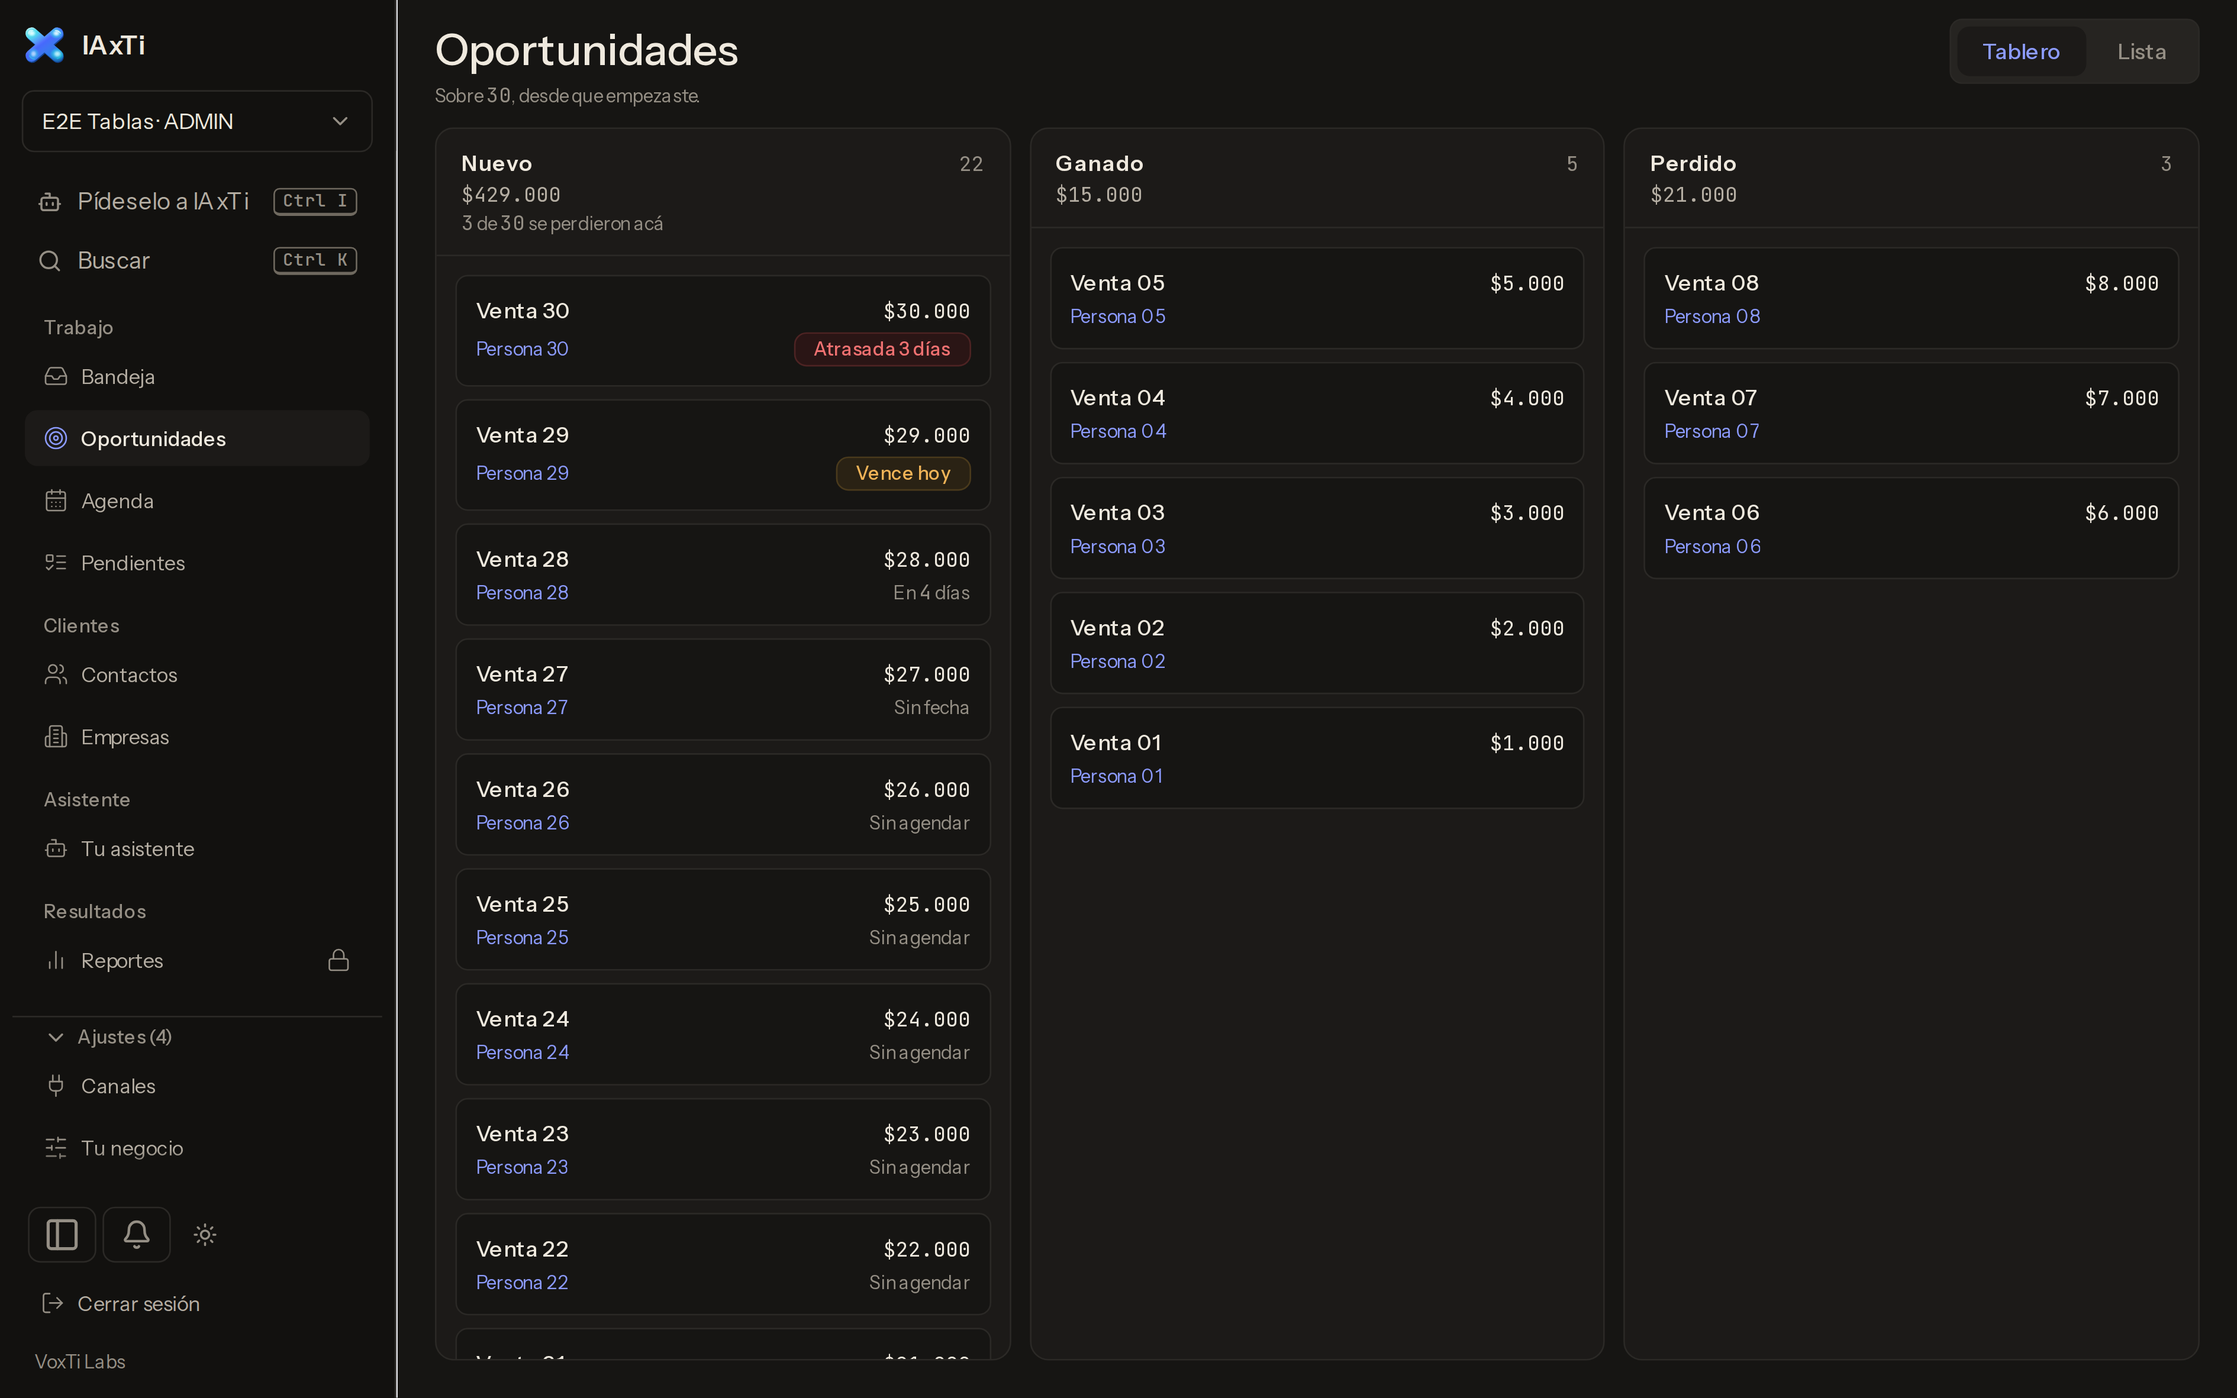
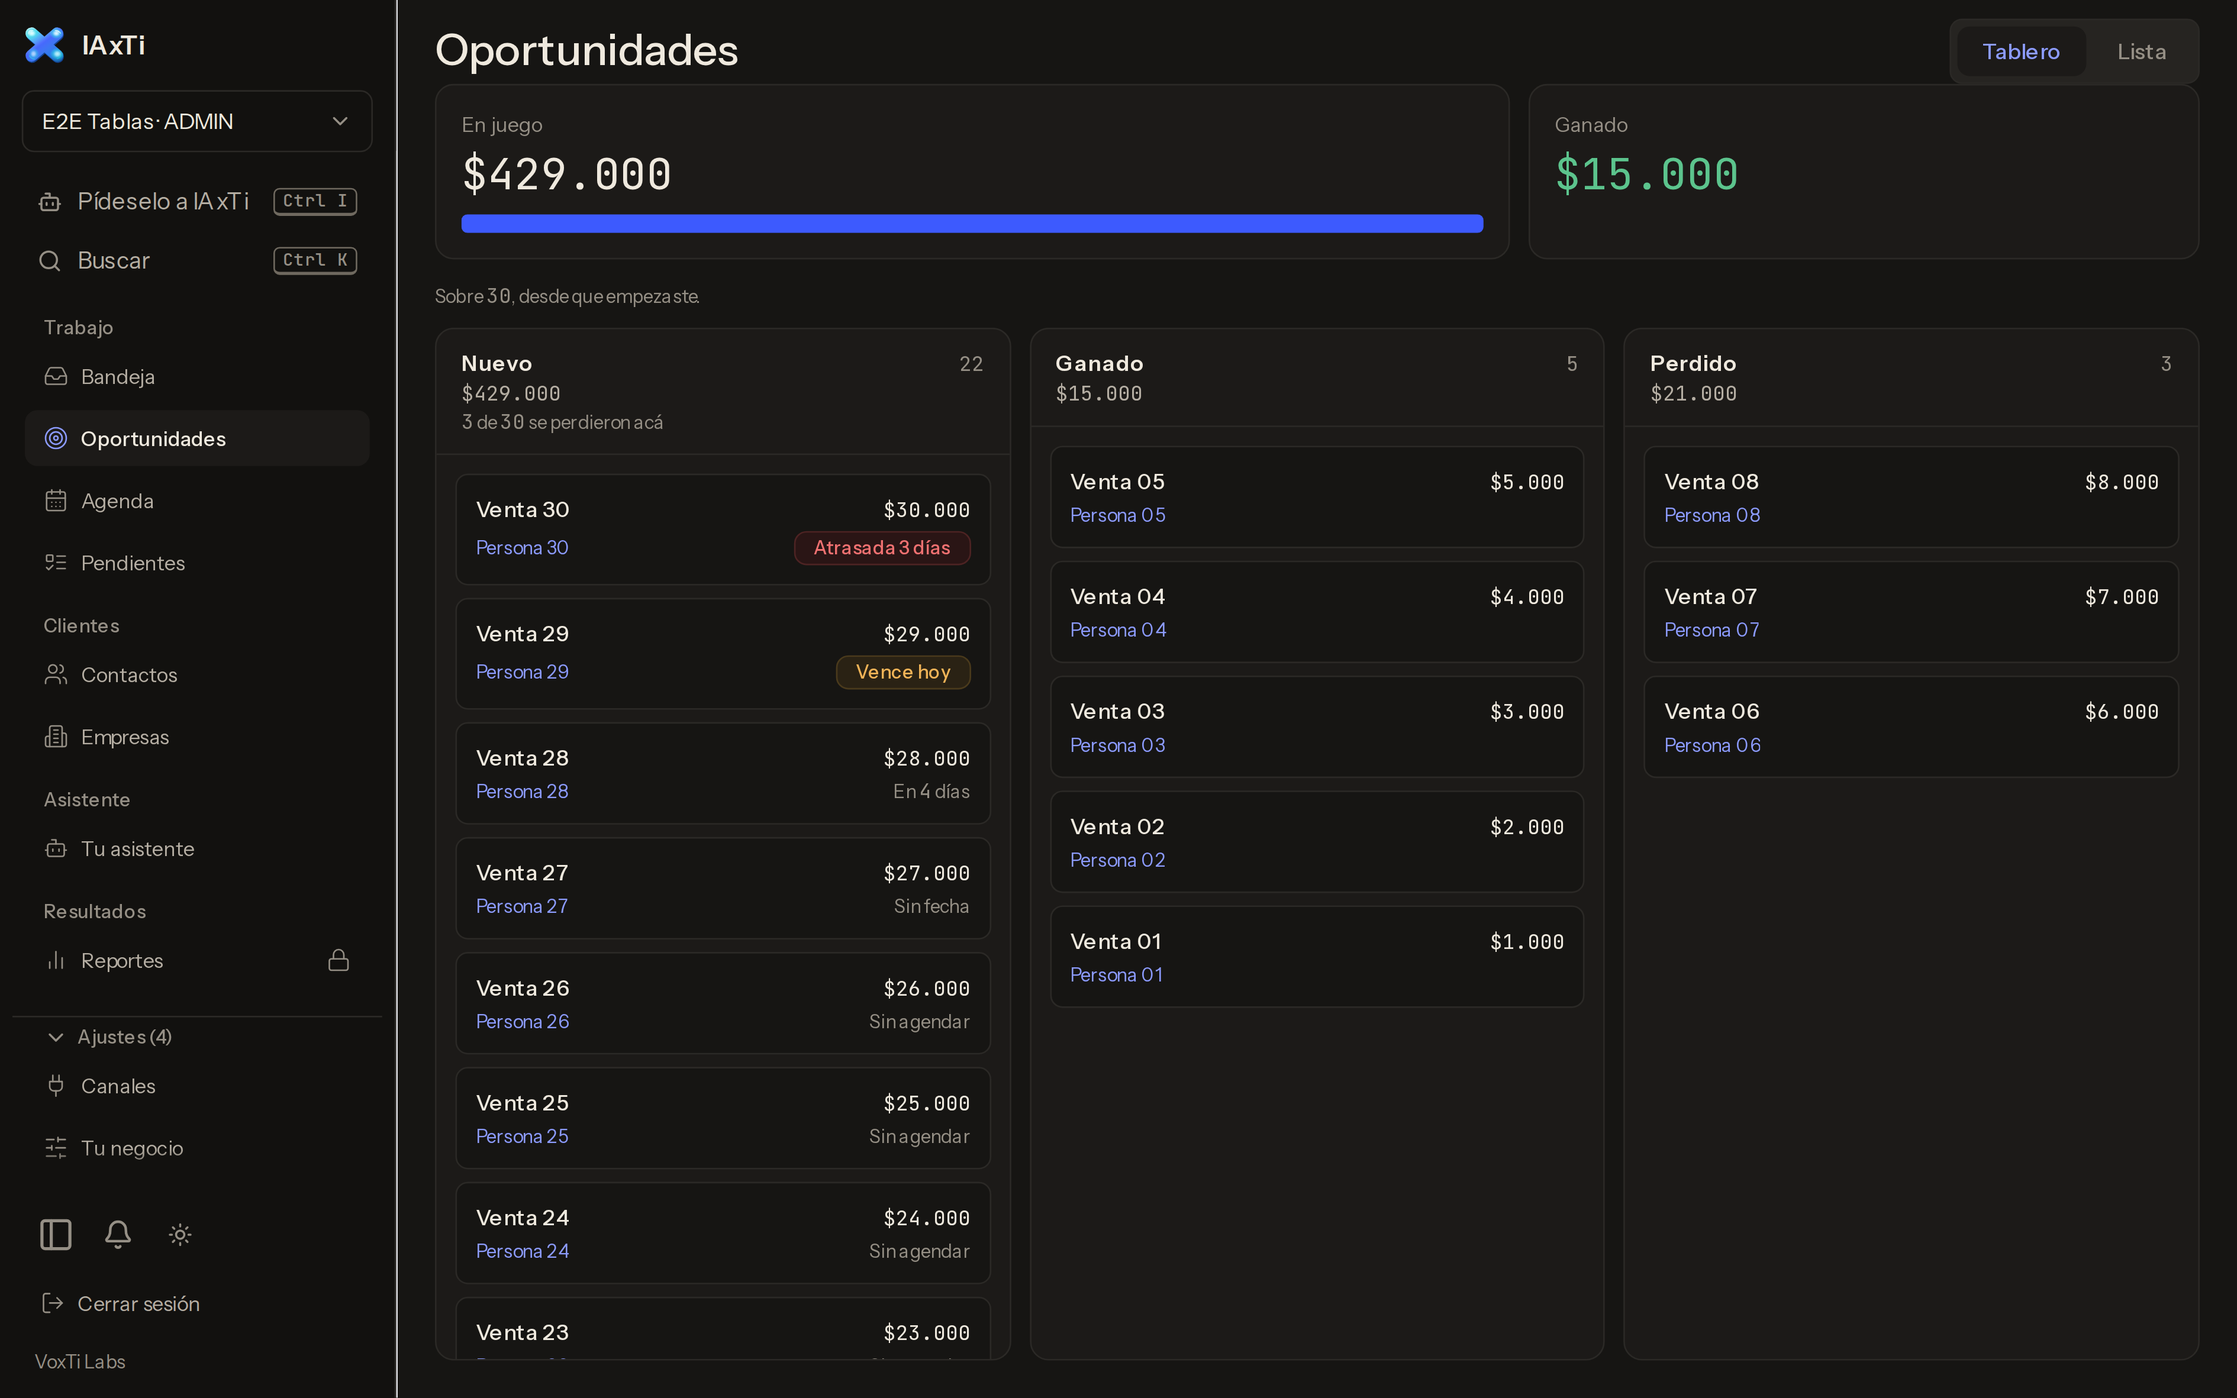
feat(ui): Mesón, fases 3 y 4 — Contactos y Oportunidades (#1350)
* feat(ui): Mesón, fases 3 y 4 — Contactos y Oportunidades (#1346)

Contactos (y toda lista que use DataTable):
- El buscador va en la misma fila que «Columnas» (prop `herramientas`);
  sin tabla —cargando o vacía— va solo, porque el vacío por búsqueda
  necesita el campo para limpiarla.
- Tabla más liviana: encabezados chicos y apagados, filete normal,
  filas centradas, hover al fondo de página. «Columnas» sin borde.
- Exportar e Importar con su icono.

Oportunidades:
- Cifras arriba del tablero, solo las que el producto SABE: «En juego»
  (suma de etapas abiertas de /deals/resumen, con su barra en el orden
  de las columnas y el azul en la abierta más avanzada) y «Ganado». Sin
  resumen no se dibujan. «Cerró el asistente solo» y «vs el mes
  anterior» del prototipo no van: ese dato no existe. Desde 640 px: en
  el celular el tablero necesita el alto (el-embudo-en-el-tablero).

e2e: cinco-listas-medidas, el-embudo-en-el-tablero,
el-tablero-cabe-en-la-pantalla, entrar-a-una-oportunidad,
la-prosa-tiene-techo, tablas y la-interfaz-meson pasan.

* fix(ui): las cifras del embudo usan la escala tipográfica (#1346)

text-[28px] era un tamaño suelto; tipografia.test (#297) lo rechaza.
text-titulo da 24–28 px, lo mismo que pedía el prototipo.

Claude-Session: https://claude.ai/code/session_01XVX1GkKUcgfbKQhEKGhndj

* fix(web): los botones de Contactos no se salen a 360 px (#1346)

Con los íconos nuevos los tres botones del encabezado sumaban 380 px y a
[…]

diff --git a/apps/web/components/crm/contactos.tsx b/apps/web/components/crm/contactos.tsx
@@ -3,6 +3,7 @@
 import { AvisoResultado, EncabezadoDePagina } from '@iaxti/ui/react';
 
 import { useCallback, useEffect, useMemo, useRef, useState } from 'react';
+import { Download, Upload } from 'lucide-react';
 import { Badge, Button, DataTable, EstadoVacio, Input, Skeleton, useSession, type ColumnDef, type SortingState, type RowSelectionState } from '@iaxti/ui/react';
 import { useSelectedTenant } from '../tenant-switcher';
 import { crmClient } from '@iaxti/sdk';
@@ -129,6 +130,16 @@ function ContactosDelNegocio({ tenant }: { tenant: string }) {
     { id: 'rut', accessorKey: 'rut', header: 'RUT', enableSorting: false, cell: ({ row }) => <span className="font-mono">{row.original.rut ?? '—'}</span> },
     { id: 'activity', accessorKey: 'lastActivityAt', header: 'Actividad', cell: ({ row }) => <time dateTime={row.original.lastActivityAt} className="font-mono">{new Date(row.original.lastActivityAt).toLocaleDateString('es-CL')}</time> },
   ];
+  const buscador = (clase = '') => (
+    <Input
+      type="search"
+      aria-label="Buscar contactos"
+      placeholder="Buscar por nombre o teléfono"
+      className={`w-full max-w-xs ${clase}`}
+      value={q}
+      onChange={(e) => { setQ(e.target.value); firstPage(); }}
+    />
+  );
   return (
     <div className="max-w-5xl" data-densidad="densa">
       <div className="flex flex-wrap items-center gap-4">
@@ -143,13 +154,15 @@ function ContactosDelNegocio({ tenant }: { tenant: string }) {
             ya ofrece como acción. Exportar queda detrás, en secundario:
             Excel primero, que es lo que la gente quiere cuando dice
             «exportar», y el CSV al lado para quien lo lleva a otro sistema. */}
-        <div className="ml-auto flex items-center gap-2">
+        {/* A 360 px los tres con ícono suman 380 px y no caben en 328: el
+            ícono es de escritorio y la fila puede bajar a dos líneas (#1346). */}
+        <div className="ml-auto flex flex-wrap items-center justify-end gap-2">
           <Button
             variant="secundario"
             disabled={exportando || items?.length === 0}
             onClick={() => void exportarXlsx()}
           >
-            {exportando ? 'Armando el archivo…' : 'Exportar Excel'}
+            <Download className="hidden size-4 sm:block" aria-hidden />{exportando ? 'Armando el archivo…' : 'Exportar Excel'}
           </Button>
           {/* «Exportar CSV» y no «CSV» (#1118). El peso fantasma es la
               decisión de #1106 y se queda —es la exportación menos usada—,
@@ -166,9 +179,9 @@ function ContactosDelNegocio({ tenant }: { tenant: string }) {
           </Button>
           <a
             href="/contactos/importar"
-            className="inline-flex min-h-control items-center rounded-boton bg-action px-5 text-sm font-medium text-white transition-colors hover:bg-action-hover"
+            className="inline-flex min-h-control items-center gap-2 rounded-boton bg-action px-4 text-sm font-medium text-white transition-colors hover:bg-action-hover"
           >
-            Importar CSV
+            <Upload className="hidden size-4 sm:block" aria-hidden />Importar CSV
           </a>
         </div>
       </div>
@@ -178,14 +191,10 @@ function ContactosDelNegocio({ tenant }: { tenant: string }) {
           `max-w-xs` y no un valor nuevo: es el que ya usa el buscador de
           Empresas, y tres anchos para la misma cosa en tres pantallas es
           exactamente lo que #1109 vino a sacar. */}
-      <Input
-        type="search"
-        aria-label="Buscar contactos"
-        placeholder="Buscar por nombre o teléfono"
-        className="mt-4 w-full max-w-xs"
-        value={q}
-        onChange={(e) => { setQ(e.target.value); firstPage(); }}
-      />
+      {/* Con tabla, el buscador va en la fila de «Columnas» (Mesón, #1346);
+          sin tabla —cargando o vacía— va solo, porque el vacío por búsqueda
+          necesita el campo para limpiarla. */}
+      {!(items && items.length > 0) && buscador('mt-4')}
       {aviso && (
         <AvisoResultado>
           {aviso}
@@ -203,6 +212,7 @@ function ContactosDelNegocio({ tenant }: { tenant: string }) {
         <DataTable label="Contactos" columns={columns} rows={items} sorting={sorting}
           onSort={(sort) => { setSorting(sort); firstPage(); }} selection={selection} onSelection={setSelection}
           nextCursor={cursor} loading={loading} mobileColumns={['name']} canPrevious={history.length > 0}
+          herramientas={buscador()}
           onNext={() => { if (cursor) { setHistory((h) => [...h, currentCursor]); setCurrentCursor(cursor); setSelection({}); } }}
           onPrevious={() => { setCurrentCursor(history.at(-1)); setHistory((h) => h.slice(0, -1)); setSelection({}); }}>
           <EtiquetarSeleccion tenant={tenant} contactIds={items.filter((c) => selection[c.id]).map((c) => c.id)} onDone={() => setSelection({})} />

diff --git a/apps/web/components/crm/oportunidades.tsx b/apps/web/components/crm/oportunidades.tsx
@@ -188,6 +188,62 @@ export function QueHayQueHacer({ deal }: { deal: DealCardDto }) {
  * Se calla entera sin oportunidades: sin datos no hay embudo, y una línea
  * que diga «sobre 0» es ruido que ocupa alto.
  */
+/**
+ * Las cifras de arriba del tablero (Mesón, #1346).
+ *
+ * El prototipo traía tres; acá van las dos que el producto SABE: lo que está
+ * en juego —la suma de las etapas abiertas, con su barra en el mismo orden que
+ * las columnas— y lo ganado. Salen de `/deals/resumen`, el mismo que pone el
+ * dinero en cada cabecera, y sin resumen no se dibujan: una cifra que miente es
+ * peor que ninguna. «Cerró el asistente solo» y «vs el mes anterior» no se
+ * muestran porque ese dato no existe todavía.
+ *
+ * El azul va en la etapa abierta más avanzada —la que está por cerrarse—; las
+ * demás en grises del marco. Pocas palabras: la pantalla tiene techo de prosa.
+ */
+function CifrasDelEmbudo({
+  etapas,
+  resumen,
+}: {
+  etapas: StageDto[];
+  resumen: Record<string, { cuantas: number; totalClp: number }>;
+}) {
+  const abiertas = etapas.filter((e) => e.type === 'open' && resumen[e.id]);
+  const ganadas = etapas.filter((e) => e.type === 'won' && resumen[e.id]);
+  const enJuego = abiertas.reduce((s, e) => s + resumen[e.id].totalClp, 0);
+  const ganado = ganadas.reduce((s, e) => s + resumen[e.id].totalClp, 0);
+  if (enJuego === 0 && ganado === 0) return null;
+  const ultimaConDinero = [...abiertas].reverse().find((e) => resumen[e.id].totalClp > 0)?.id;
+  // Tres grises del marco, de claro a hondo; el azul lo lleva una sola.
+  const tonos = ['bg-line', 'bg-line-strong', 'bg-faint'];
+  return (
+    // Solo desde 640 px: en el celular el tablero necesita el alto
+    // (el-embudo-en-el-tablero pide > 400 px) y cada cabecera ya trae su total.
+    <div className="hidden shrink-0 gap-3 px-6 pb-4 sm:grid sm:grid-cols-[minmax(0,1.6fr)_minmax(0,1fr)]">
+      <section aria-label="En juego" className="rounded-tarjeta border border-line bg-raised p-4">
+        <p className="text-dato text-muted">En juego</p>
+        <p className="mt-2 font-mono text-titulo leading-none tabular-nums text-ink">{fmtClp(enJuego)}</p>
+        {enJuego > 0 && (
+          <div className="mt-3 flex h-3 gap-0.5 overflow-hidden rounded" aria-hidden>
+            {abiertas.filter((e) => resumen[e.id].totalClp > 0).map((e, i) => (
+              <span
+                key={e.id}
+                title={`${e.name}: ${fmtClp(resumen[e.id].totalClp)}`}
+                style={{ flexGrow: resumen[e.id].totalClp }}
+                className={e.id === ultimaConDinero ? 'bg-action' : tonos[i % tonos.length]}
+              />
+            ))}
+          </div>
+        )}
+      </section>
+      <section aria-label="Ganado" className="rounded-tarjeta border border-line bg-raised p-4">
+        <p className="text-dato text-muted">Ganado</p>
+        <p className="mt-2 font-mono text-titulo leading-none tabular-nums text-good-text">{fmtClp(ganado)}</p>
+      </section>
+    </div>
+  );
+}
+
 function LecturaDelEmbudo({ embudo }: { embudo: EmbudoDto | null }) {
   if (!embudo || embudo.oportunidades === 0) return null;
   return (
@@ -535,6 +591,7 @@ function OportunidadesDelNegocio({ tenant }: { tenant: string }) {
              quedaba pegada al borde izquierdo. Se vio en la captura de
              celular. */
         <>
+          <CifrasDelEmbudo etapas={pipeline.stages} resumen={resumen} />
           <LecturaDelEmbudo embudo={embudo} />
           <div className="flex min-h-0 flex-1 snap-x scroll-px-6 gap-3 overflow-x-auto px-6 pb-6">
           {pipeline.stages.map((stage) => {

diff --git a/packages/ui/src/react/ui/data-table.tsx b/packages/ui/src/react/ui/data-table.tsx
@@ -11,12 +11,14 @@ export type { ColumnDef, SortingState, RowSelectionState } from '@tanstack/react
 
 /** El servidor entrega una página ya ordenada/filtrada; aquí no se vuelve a ordenar. */
 export function DataTable<T extends { id: string }>({ label, columns, rows, sorting, onSort, selection, onSelection,
-  nextCursor, onNext, onPrevious, canPrevious, loading = false, mobileColumns, children,
+  nextCursor, onNext, onPrevious, canPrevious, loading = false, mobileColumns, children, herramientas,
 }: {
   label: string; columns: ColumnDef<T, unknown>[]; rows: T[]; sorting: SortingState;
   onSort: (value: SortingState) => void; selection: RowSelectionState; onSelection: (value: RowSelectionState) => void;
   nextCursor: string | null; onNext: () => void; onPrevious: () => void; canPrevious: boolean;
   loading?: boolean; mobileColumns: string[]; children?: ReactNode;
+  /** Lo que va a la izquierda de «Columnas», en la misma fila: el buscador de la pantalla. */
+  herramientas?: ReactNode;
 }) {
   const [small, setSmall] = useState(false);
   const [visibility, setVisibility] = useState<Record<string, boolean>>({});
@@ -39,12 +41,15 @@ export function DataTable<T extends { id: string }>({ label, columns, rows, sort
   const hayPaginas = canPrevious || !!nextCursor;
   return <div data-densidad="densa" className="mt-4 min-w-0 space-y-3" aria-busy={loading}>
     <div className="flex flex-wrap items-center justify-between gap-3">
+      {/* Mesón (#1346): el buscador de la pantalla va en la MISMA fila que
+          «Columnas», a la izquierda; antes eran dos filas para dos controles. */}
+      {herramientas}
       {/* «Columnas» ES un control y tenía que verse como uno (#1118): era un
           `summary` en azul de acción y nada más, flotando sobre la tabla, con
           el aspecto de texto que alguien se olvidó de estilar. Sigue siendo
           `details`/`summary` —funciona sin JavaScript— con la piel del botón
           secundario del sistema. */}
-      <details className="text-dato"><summary className="inline-flex cursor-pointer items-center gap-2 rounded-boton border border-line-strong bg-raised px-4 py-2 text-cuerpo text-body transition-colors hover:border-line-strong hover:text-ink [&::-webkit-details-marker]:hidden">
+      <details className="ml-auto text-dato"><summary className="inline-flex h-9 cursor-pointer items-center gap-2 rounded-boton px-3 text-dato text-body transition-colors hover:bg-rest hover:text-ink [&::-webkit-details-marker]:hidden">
         <IconoColumnas className="h-4 w-4" aria-hidden />Columnas</summary>
         <div className="flex flex-wrap gap-3">{table.getAllLeafColumns().filter((c) => c.getCanHide()).map((c) => <label key={c.id} className="inline-flex min-h-control items-center gap-2">
           {/* El Checkbox de Pulso y no un `<input type="checkbox">`: el

diff --git a/packages/ui/src/react/ui/table.tsx b/packages/ui/src/react/ui/table.tsx
@@ -6,17 +6,17 @@ export const Table = React.forwardRef<HTMLTableElement, React.HTMLAttributes<HTM
   <table ref={ref} className={cn('w-full table-fixed border-collapse text-dato', className)} {...props} />);
 Table.displayName = 'Table';
 export const TableHeader = React.forwardRef<HTMLTableSectionElement, React.HTMLAttributes<HTMLTableSectionElement>>(({ className, ...props }, ref) =>
-  <thead ref={ref} className={cn('border-b border-line-strong text-muted', className)} {...props} />);
+  <thead ref={ref} className={cn('border-b border-line text-muted', className)} {...props} />);
 TableHeader.displayName = 'TableHeader';
 export const TableBody = React.forwardRef<HTMLTableSectionElement, React.HTMLAttributes<HTMLTableSectionElement>>(({ className, ...props }, ref) =>
   <tbody ref={ref} className={cn('[&_tr:last-child]:border-0', className)} {...props} />);
 TableBody.displayName = 'TableBody';
 export const TableRow = React.forwardRef<HTMLTableRowElement, React.HTMLAttributes<HTMLTableRowElement>>(({ className, ...props }, ref) =>
-  <tr ref={ref} className={cn('border-b border-line transition-colors hover:bg-rest data-[state=selected]:bg-action-soft', className)} {...props} />);
+  <tr ref={ref} className={cn('border-b border-line transition-colors hover:bg-bg data-[state=selected]:bg-action-soft', className)} {...props} />);
 TableRow.displayName = 'TableRow';
 export const TableHead = React.forwardRef<HTMLTableCellElement, React.ThHTMLAttributes<HTMLTableCellElement>>(({ className, ...props }, ref) =>
-  <th ref={ref} className={cn('break-words px-fila-x py-fila-y text-left font-medium', className)} {...props} />);
+  <th ref={ref} className={cn('break-words px-fila-x py-2.5 text-left text-rotulo font-normal', className)} {...props} />);
 TableHead.displayName = 'TableHead';
 export const TableCell = React.forwardRef<HTMLTableCellElement, React.TdHTMLAttributes<HTMLTableCellElement>>(({ className, ...props }, ref) =>
-  <td ref={ref} className={cn('break-words px-fila-x py-fila-y align-top', className)} {...props} />);
+  <td ref={ref} className={cn('break-words px-fila-x py-fila-y align-middle', className)} {...props} />);
 TableCell.displayName = 'TableCell';
